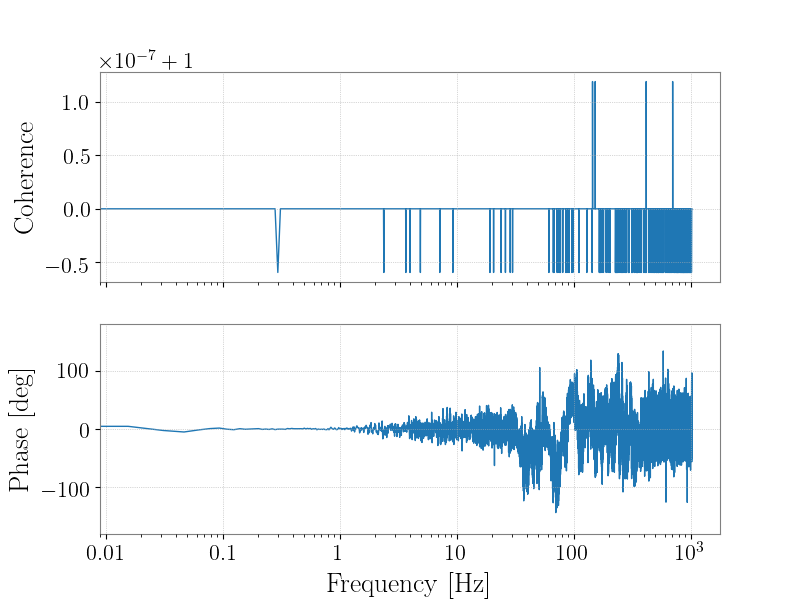
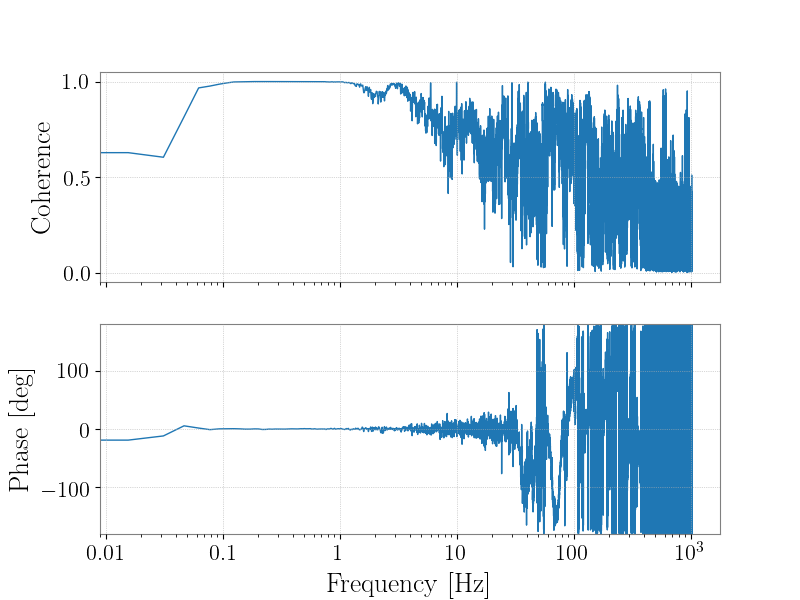
Add test function. It work well!

diff --git a/selfnoise/whitenning/test_coherence.py b/selfnoise/whitenning/test_coherence.py
@@ -1,0 +1,89 @@
+import sys
+sys.path.insert(0,'/Users/miyo/Dropbox/Git/gwpy/')
+import gwpy
+print gwpy.__file__
+
+from gwpy.frequencyseries import FrequencySeries
+
+from gwpy.timeseries import TimeSeries
+from gwpy.spectrogram import Spectrogram
+
+from gwpy.time import tconvert
+from gwpy.plot import Plot
+
+from _file import (get_timeseries,get_specgram,get_csd_specgram,
+                   to_gwffname,to_pngfname,to_hdf5fname)
+
+from _plot import (plot_asd,plot_coherence,plot_spectrogram)                
+import matplotlib.pyplot as plt
+from scipy import signal
+import numpy as np
+
+if __name__ == '__main__':
+    
+    start = tconvert('Nov 13 01:00:0') 
+    fftlength = 2**7
+    end = start + fftlength*2**4
+    
+    chname1 = 'K1:PEM-IXV_SEIS_NS_SENSINF_IN1_DQ'
+    chname2 = 'K1:PEM-EXV_SEIS_NS_SENSINF_IN1_DQ'
+    chname2 = 'K1:PEM-IXV_SEIS_TEST_NS_SENSINF_IN1_DQ'
+    
+    kwargs = {}
+    kwargs['start'] = start
+    kwargs['end'] = end
+
+    timeseries1 = get_timeseries(chname1,remake=True,fftlength=2**7,**kwargs)
+    timeseries2 = get_timeseries(chname2,remake=True,fftlength=2**7,**kwargs)
+    
+    psd_specgram1 = get_specgram(chname1,remake=True,fftlength=2**7,**kwargs)
+    psd_specgram2 = get_specgram(chname2,remake=True,fftlength=2**7,**kwargs)
+    csd_specgram = get_csd_specgram(chname1,chname2,remake=True,
+                                    fftlength=2**6,**kwargs)
+
+    # calc scipy
+    fs = 1./timeseries1.dt
+    fs = fs.value
+    x = timeseries1.value
+    y = timeseries2.value
+    nperseg = int(fftlength*fs)
+    f, csd = signal.csd(x,y,fs,nperseg=nperseg,noverlap=0)
+    f, psd1 = signal.welch(x,fs,nperseg=nperseg,noverlap=0)
+    f, psd2 = signal.welch(y,fs,nperseg=nperseg,noverlap=0)
+    mag_scipy = (np.abs(csd)**2.0/psd1/psd2)**(1/2.)
+    angle_scipy = np.angle(csd)
+    angle_scipy = np.rad2deg(angle_scipy)
+
+    # calc gwpy    
+    csd_specgram = timeseries1.csd_spectrogram(timeseries2,
+                                               stride=fftlength,
+                                               fftlength=fftlength,
+                                               overlap=0,
+                                               window='hanning',
+                                               nproc=2)
+
+    angle_gwpy = csd_specgram.mean(axis=0).angle().rad2deg()
+    psd_specgram1 = psd_specgram1.mean(axis=0)
+    psd_specgram2 = psd_specgram2.mean(axis=0)    
+    csd_mag = csd_specgram.mean(axis=0).abs()
+    mag_gwpy = csd_mag/psd_specgram1**(1/2.0)/psd_specgram2**(1/2.)
+    
+
+    plot, (ax0,ax1) = plt.subplots(nrows=2, sharex=True, figsize=(8, 6))
+    ax0.plot(mag_gwpy,label='gwpy')
+    ax0.plot(f,mag_scipy,label='scipy')
+    ax0.legend()
+    ax0.set_ylim(0,1)
+    ax0.set_xscale('log')
+    ax0.set_xlabel('Frequency [Hz]')
+    ax1.plot(angle_gwpy)
+    ax1.plot(f,angle_scipy)
+    ax1.set_xscale('log')    
+    plot.savefig('Test_Coherence.png')
+    print '--- Result ---'
+    result = {True:'passed!', False:'not passed..'}    
+    magtest = np.all(np.isclose(mag_gwpy.value,mag_scipy))
+    angtest = np.all(np.isclose(angle_gwpy.value,angle_scipy))
+    print 'Magnitude Matching : ', magtest
+    print 'Angle Matching     : ', angtest
+    print 'Matching result is : ', result[magtest and angtest]

diff --git a/selfnoise/whitenning/test_csd.py b/selfnoise/whitenning/test_csd.py
@@ -1,0 +1,81 @@
+import sys
+sys.path.insert(0,'/Users/miyo/Dropbox/Git/gwpy/')
+import gwpy
+print gwpy.__file__
+
+from gwpy.frequencyseries import FrequencySeries
+
+from gwpy.timeseries import TimeSeries
+from gwpy.spectrogram import Spectrogram
+
+from gwpy.time import tconvert
+from gwpy.plot import Plot
+
+from _file import (get_timeseries,get_specgram,get_csd_specgram,
+                   to_gwffname,to_pngfname,to_hdf5fname)
+
+from _plot import (plot_asd,plot_coherence,plot_spectrogram)                
+import matplotlib.pyplot as plt
+from scipy import signal
+import numpy as np
+
+if __name__ == '__main__':
+    
+    start = tconvert('Nov 13 01:00:0') 
+    fftlength = 2**7
+    end = start + fftlength*2**4
+    
+    chname1 = 'K1:PEM-IXV_SEIS_NS_SENSINF_IN1_DQ'
+    chname2 = 'K1:PEM-EXV_SEIS_NS_SENSINF_IN1_DQ'
+    
+    kwargs = {}
+    kwargs['start'] = start
+    kwargs['end'] = end
+
+    timeseries1 = get_timeseries(chname1,remake=True,fftlength=2**6,**kwargs)
+    timeseries2 = get_timeseries(chname2,remake=True,fftlength=2**6,**kwargs)
+    
+    specgram1 = get_specgram(chname1,remake=True,fftlength=2**6,**kwargs)
+    specgram2 = get_specgram(chname2,remake=True,fftlength=2**6,**kwargs)
+    csd_specgram = get_csd_specgram(chname1,chname2,remake=True,
+                                    fftlength=2**6,**kwargs)
+
+    # calc scipy
+    fs = 1./timeseries1.dt
+    fs = fs.value
+    x = timeseries1.value
+    y = timeseries2.value
+    nperseg = int(fftlength*fs)
+    f, csd_scipy = signal.csd(x,y,fs,nperseg=nperseg,noverlap=0)
+    mag_scipy = np.abs(csd_scipy)
+    angle_scipy = np.angle(csd_scipy)
+
+    # calc gwpy
+    csd_specgram = timeseries1.csd_spectrogram(timeseries2,
+                                               stride=fftlength,
+                                               fftlength=fftlength,
+                                               overlap=0,
+                                               window='hanning',
+                                               nproc=2)
+
+    mag_gwpy = csd_specgram.mean(axis=0).abs()
+    angle_gwpy = csd_specgram.mean(axis=0).angle()
+    plot, (ax0,ax1) = plt.subplots(nrows=2, sharex=True, figsize=(8, 6))
+    ax0.plot(mag_gwpy,label='gwpy')
+    ax0.plot(f,mag_scipy,label='scipy')
+    ax0.legend()
+    ax0.set_ylim(1e-5,1e3)
+    ax0.set_yscale('log')
+    ax0.set_xscale('log')
+    ax0.set_ylabel('Frequency [Hz]')
+    ax1.plot(angle_gwpy)
+    ax1.plot(f,angle_scipy)
+    ax1.set_xscale('log')    
+    plot.savefig('Test_CSD.png')
+    print '--- Result ---'
+    result = {True:'passed!', False:'not passed..'}
+    magtest = np.all(np.isclose(mag_gwpy.value,mag_scipy))
+    angtest = np.all(np.isclose(angle_gwpy.value,angle_scipy))
+    print 'Magnitude Matching : ', magtest
+    print 'Angle Matching     : ', angtest
+    print 'Matching result is : ', result[magtest and angtest]

diff --git a/selfnoise/whitenning/test_asd.py b/selfnoise/whitenning/test_asd.py
@@ -1,0 +1,67 @@
+import sys
+sys.path.insert(0,'/Users/miyo/Dropbox/Git/gwpy/')
+import gwpy
+print gwpy.__file__
+
+from gwpy.frequencyseries import FrequencySeries
+
+from gwpy.timeseries import TimeSeries
+from gwpy.spectrogram import Spectrogram
+
+from gwpy.time import tconvert
+from gwpy.plot import Plot
+
+from _file import (get_timeseries,get_specgram,get_csd_specgram,
+                   to_gwffname,to_pngfname,to_hdf5fname)
+
+from _plot import (plot_asd,plot_coherence,plot_spectrogram)                
+import matplotlib.pyplot as plt
+from scipy import signal
+import numpy as np
+
+if __name__ == '__main__':
+    
+    start = tconvert('Nov 13 01:00:0') 
+    fftlength = 2**7
+    end = start + fftlength*2**4
+    
+    chname1 = 'K1:PEM-IXV_SEIS_NS_SENSINF_IN1_DQ'
+    chname2 = 'K1:PEM-EXV_SEIS_NS_SENSINF_IN1_DQ'
+    
+    kwargs = {}
+    kwargs['start'] = start
+    kwargs['end'] = end
+
+    timeseries1 = get_timeseries(chname1,remake=True,fftlength=2**6,**kwargs)
+    timeseries2 = get_timeseries(chname2,remake=True,fftlength=2**6,**kwargs)
+    
+    # calc scipy
+    fs = 1./timeseries1.dt
+    fs = fs.value
+    fs = timeseries1.sample_rate.decompose().value
+    x = timeseries1.value
+    nperseg = int(fftlength*fs)
+    f, asd_scipy = signal.welch(x,fs,nperseg=nperseg,noverlap=0)
+    mag_scipy = asd_scipy ** (1.0/2.)
+    
+    # calc gwpy
+    asd_specgram = timeseries1.spectrogram(stride=fftlength,
+                                           fftlength=fftlength,
+                                           overlap=0,
+                                           method='scipy-welch',
+                                           window='hanning') 
+    mag_gwpy = asd_specgram.mean(axis=0)** (1/2.)#.abs()
+    plot, (ax0,ax1) = plt.subplots(nrows=2, sharex=True, figsize=(8, 6))
+    ax0.plot(mag_gwpy,label='gwpy')
+    ax0.plot(f,mag_scipy,label='scipy')
+    ax0.legend()
+    ax0.set_ylim(1e-2,1e2)
+    ax0.set_yscale('log')
+    ax0.set_xscale('log')
+    ax0.set_ylabel('Frequency [Hz]')
+    plot.savefig('Test_ASD.png')
+    print '--- Result ---'
+    result = {True:'passed!', False:'not passed..'}    
+    magtest = np.all(np.isclose(mag_gwpy.value,mag_scipy))
+    print 'Magnitude Matching : ', magtest
+    print 'Matching result is : ', result[magtest]
